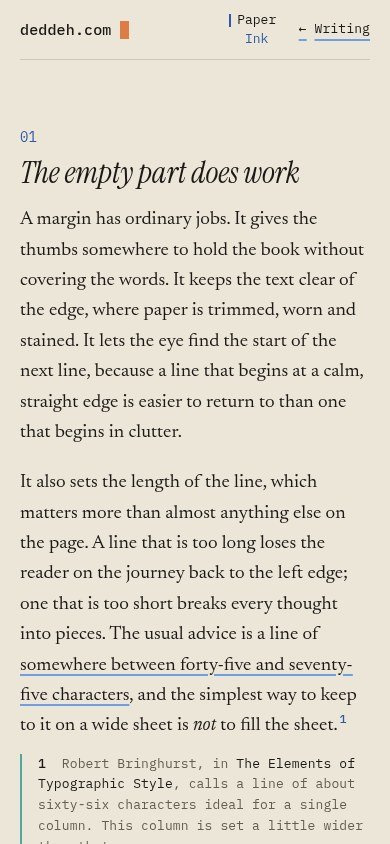
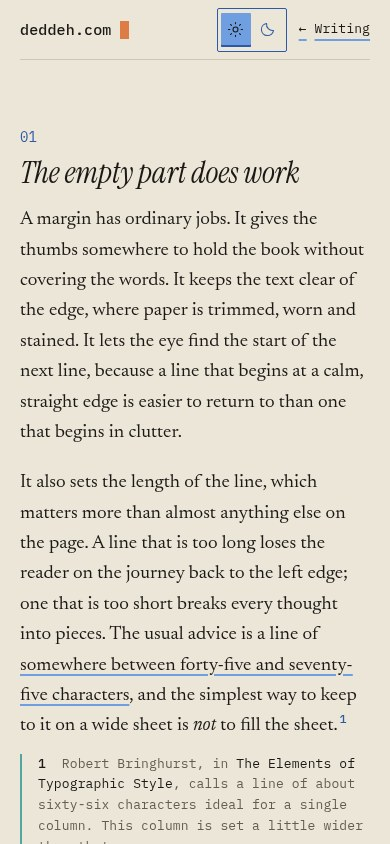
Make Writing reading mode discoverable with a framed sun and moon control

Changed region(s): [[0.5538, 0.0, 0.7385, 0.0616]]

diff --git a/src/article.css b/src/article.css
@@ -18,19 +18,17 @@
 .return:hover { color: var(--blue-ink); }
 .return:hover span { transform: translateX(-4px); }
 
-/* A small typesetter's switch in the existing running head. No extra row or overlay. */
+/* A framed pair of printing blocks in the existing running head. One native toggle. */
 .reader-enabled .top { position: sticky; top: 0; z-index: 4; background: var(--bg); }
 .reader-enabled { scroll-padding-top: 88px; }
-.reading-mode { display: inline-flex; align-items: center; justify-content: center; gap: 9px; flex: none; min-height: 44px; margin-left: auto; padding: 0 8px; font: 400 13px/1.4 var(--mono); color: var(--muted); }
+.reading-mode { display: inline-flex; align-items: center; justify-content: center; gap: 2px; flex: none; min-height: 44px; margin-left: auto; padding: 3px; border: 1px solid var(--muted); border-radius: 2px; font: 400 13px/1.4 var(--mono); color: var(--muted); }
 .reading-mode + .return { margin-left: 0; }
-.reading-mode span:not(.mode-divider) { position: relative; }
-.reading-mode span:not(.mode-divider)::after { content: ''; position: absolute; height: 2px; inset: auto 0 -5px; background: var(--blue-ink); transform: scaleX(0); transition: transform .25s ease; }
-.reading-mode[aria-pressed='false'] .mode-paper, .reading-mode[aria-pressed='true'] .mode-ink { color: var(--ink); }
-.reading-mode[aria-pressed='false'] .mode-paper::after, .reading-mode[aria-pressed='true'] .mode-ink::after { transform: scaleX(1); }
-.reading-mode:hover { color: var(--blue-ink); }
-.reading-mode:active { opacity: .75; }
-.reading-mode:focus-visible { outline-offset: 2px; }
-.mode-divider { color: var(--muted); }
+.reading-mode > span { display: inline-flex; align-items: center; justify-content: center; gap: 6px; min-height: 34px; padding: 0 9px; border-radius: 1px; }
+.reading-mode svg { width: 17px; height: 17px; flex: none; }
+.reading-mode[aria-pressed='false'] .mode-paper, .reading-mode[aria-pressed='true'] .mode-ink { background: var(--blue); color: var(--block-ink); box-shadow: inset 0 -2px var(--blue-ink); }
+.reading-mode:hover { border-color: var(--blue-ink); color: var(--blue-ink); }
+.reading-mode:active { border-color: var(--ink); }
+.reading-mode:focus-visible { outline-offset: 3px; }
 
 /* Interpolate the shared inks once, rather than re-transitioning inherited colours
    on each child (which makes links and labels lag behind the surrounding text).
@@ -143,10 +141,8 @@
   .reader-enabled .top { gap: 12px; }
   .reader-enabled .top .marks { display: none; }
   .reader-enabled { scroll-padding-top: 76px; }
-  .reading-mode { flex-direction: column; gap: 2px; min-width: 60px; line-height: 1.25; }
-  .reading-mode .mode-divider { display: none; }
-  .reading-mode span:not(.mode-divider)::after { width: 2px; height: auto; inset: 2px auto 2px -8px; transform: scaleY(0); }
-  .reading-mode[aria-pressed='false'] .mode-paper::after, .reading-mode[aria-pressed='true'] .mode-ink::after { transform: scaleY(1); }
+  .reading-mode > span { width: 30px; padding: 0; }
+  .reading-mode .mode-label { display: none; }
 }
 @media (max-width: 480px) { .paper .marks span:not(.is-on) { display: none; } }
 
@@ -159,7 +155,7 @@
   #essay, .from-proof #essay, .from-proof.proofed #essay { animation: none; }
   .end { animation: none; }
   .paper, .paper body, .return span, .prose a, .after .word { transition: none; }
-  .paper.is-switching-mode, .paper.is-switching-mode *, .paper.is-switching-mode *::before, .paper.is-switching-mode *::after, .reading-mode span::after { transition: none; }
+  .paper.is-switching-mode, .paper.is-switching-mode *, .paper.is-switching-mode *::before, .paper.is-switching-mode *::after { transition: none; }
 }
 @media print {
   .grain, .return, .marks, .after .toc, .skip-link, .reading-mode, .proof-bars { display: none; }

diff --git a/src/reading-mode.js b/src/reading-mode.js
@@ -19,8 +19,16 @@ export function initReadingMode() {
   const control = document.createElement('button');
   control.type = 'button';
   control.className = 'reading-mode';
-  control.setAttribute('aria-label', 'Ink reading mode');
-  control.innerHTML = '<span class="mode-paper" aria-hidden="true">Paper</span><span class="mode-divider" aria-hidden="true">/</span><span class="mode-ink" aria-hidden="true">Ink</span>';
+  control.setAttribute('aria-label', 'Dark reading mode');
+  control.innerHTML = `
+    <span class="mode-paper" aria-hidden="true">
+      <svg viewBox="0 0 24 24" fill="none" stroke="currentColor" stroke-width="1.5" stroke-linecap="round" focusable="false"><circle cx="12" cy="12" r="3.5"/><path d="M12 2v2m0 16v2M2 12h2m16 0h2M4.93 4.93l1.42 1.42m11.3 11.3 1.42 1.42M4.93 19.07l1.42-1.42m11.3-11.3 1.42-1.42"/></svg>
+      <span class="mode-label">Light</span>
+    </span>
+    <span class="mode-ink" aria-hidden="true">
+      <svg viewBox="0 0 24 24" fill="none" stroke="currentColor" stroke-width="1.5" stroke-linecap="round" stroke-linejoin="round" focusable="false"><path d="M20.5 13.3A8.6 8.6 0 0 1 10.7 3.5a8.6 8.6 0 1 0 9.8 9.8Z"/></svg>
+      <span class="mode-label">Dark</span>
+    </span>`;
   top.querySelector('.return').before(control);
   root.classList.add('reader-enabled');
   let timer;
@@ -29,7 +37,7 @@ export function initReadingMode() {
     root.classList.toggle('is-switching-mode', animate);
     applyReadingMode(mode);
     control.setAttribute('aria-pressed', String(mode === 'ink'));
-    control.title = mode === 'ink' ? 'Read on Paper' : 'Read in Ink';
+    control.title = mode === 'ink' ? 'Switch to light reading mode' : 'Switch to dark reading mode';
     if (animate) timer = setTimeout(() => root.classList.remove('is-switching-mode'), 500);
   };
   control.addEventListener('click', () => {

diff --git a/tests/reading-mode.test.js b/tests/reading-mode.test.js
@@ -39,7 +39,7 @@ describe('Writing reading preference', () => {
     const control = button();
     expect(control.tagName).toBe('BUTTON');
     expect(control.type).toBe('button');
-    expect(control.getAttribute('aria-label')).toBe('Ink reading mode');
+    expect(control.getAttribute('aria-label')).toBe('Dark reading mode');
     control.focus();
     for (const [mode, pressed] of [['ink', 'true'], ['paper', 'false']]) {
       control.click();

diff --git a/docs/review/reading/README.md b/docs/review/reading/README.md
@@ -1,68 +1,76 @@
-# One article, two atmospheres
+# Writing: Light / Dark, Paper / Ink
 
-Paper / Ink adds an evening reading surface to Writing's existing editorial proof. Paper retains its ivory ground, typography, asymmetric measure and marginalia. Ink uses warm charcoal (`#201e1b`), softly luminous text (`#dcd5c7`) and quieter secondary text (`#aaa293`). The blue title block retains dark lettering; blue, orange and teal stay recognizably part of the same composition.
+Writing has two reading atmospheres: the original ivory Paper and warm charcoal Ink. A framed **sun / Light · moon / Dark** control in the running header makes that choice visible. Its selected half uses the existing blue block, dark lettering and a fine lower rule. IBM Plex Mono, small line icons and nearly square corners keep it close to the site's editorial vocabulary.
 
-The control is a small IBM Plex Mono button in the existing header. A blue rule identifies the current mode, horizontally on desktop and vertically beside the two-line label on phones. The running header stays available through the article; it adds no new row, floating panel or change to the article's dimensions. On narrow screens the control occupies the decorative header marks' space. Its native button semantics announce **Ink reading mode, pressed/not pressed**; Space, Enter, touch and pointer all operate the same 44px-or-larger target.
+The original Paper / Ink words looked like a quiet header annotation. Familiar symbols, literal Light / Dark labels, a visible boundary and a filled selection now identify the control as interactive. This is a design judgment, not a claim established by automated tests or a first-time-user study.
 
-A 450ms fade interpolates shared registered CSS color properties once, keeping inherited text and links synchronized. Reduced motion is immediate; browsers without registered custom property support retain an immediate usable switch. There are no new runtime dependencies.
+At 600px and below, the words drop away and both sun and moon remain in a **70 × 44px** button. It occupies the same header slot without an extra row; Writing and home retain their own targets. The full control is one native toggle: clicking or tapping anywhere changes modes. Its stable accessible name is **Dark reading mode** and `aria-pressed` announces on/off. Enter and Space work, icons are decorative to assistive technology, and a separate blue focus outline remains visible.
 
-## Shared implementation
+## Scope and provenance
 
-- `src/reading-palette.css` owns the semantic article colors. Only `.paper` pages receive them. Ink's overrides are screen-only, so print always uses a light sheet.
-- Vite injects that palette and the shared preference bootstrap into every `writing/*/index.html` head. The explicit `deddeh:reading-mode` preference is applied before the article module, fonts or first visible content; future articles require no separate theme implementation. No system-clock or OS-theme inference is used.
-- `src/reading-mode.js` progressively creates the control, stores explicit choices, and synchronizes other tabs and restored history entries. Storage denial still permits switching on the current page. No JavaScript means readable Paper and ordinary navigation, with no dead control.
-- `src/proof.js` retains the typography measurement algorithm. It refreshes a prepared iframe's preference at measurement time, samples the actual surface and rules, and blends word bars against that surface. `Field.proof` accepts those two colors; geometry, formation, easing and timing remain the existing implementation.
-- The homepage's proof-only CSS uses the same palette for its header and fallback fade. Unmeasured and no-WebGL entries also land in the chosen atmosphere. Arrival bars carry their mode, preventing a stale palette from drawing over another mode.
-- Return links and browser Back/Forward retain the existing navigation. Only the proof method's color arguments change in `field.js`; homepage artwork and Music sculpture generation are untouched. Article copy/metadata, Contact, deployment and domain configuration are unchanged.
+- GitHub account/repository authenticated as `module7543` / `module7543/deddeh.com`.
+- Fresh branch `design/writing-mode-discoverability` starts directly at PR #12's verified head, `a63fe70578b3b993985ef5f210ef16114343f6e1`.
+- Production `main` had advanced to `639d75c8f70f31742743438d266a8bd2c9800b6d`. Its only additional change was `.github/workflows/pr-checks.yml`; it was inspected and merged into this branch.
+- The new PR targets `main` and contains the complete reading-mode feature. It does not depend on merging PR #12. Both PRs remain unmerged; PR #12's branch is unchanged.
+- Refinement runtime changes are confined to the control markup/name/title in `src/reading-mode.js` and its styles in `src/article.css`. Palettes, article typography/layout, the 450ms fade, persistence, proof-pulling animation, scroll/focus handling, reduced motion and print behavior remain as implemented in PR #12. No refinement changes to homepage, Apps, Music or Contact code.
+
+## Complete reading-mode implementation
+
+- `src/reading-palette.css` owns the semantic article colors. Ink uses warm charcoal `#201e1b`, text `#dcd5c7` and secondary text `#aaa293`. Print uses light Paper.
+- Vite injects the palette and shared preference bootstrap into every `writing/*/index.html` head. Explicit `deddeh:reading-mode` preference applies before first paint; future Writing articles share the implementation.
+- `src/reading-mode.js` creates the control, persists explicit choices and synchronizes tabs and restored history entries. No JavaScript means readable Paper with no dead control. Denied storage still allows switching.
+- The existing proof measures the chosen surface and shadow colors. Its geometry, formation, easing and timing stay intact; measured and fallback entries respect the saved mode.
+- Registered CSS color properties keep the background and text fade synchronized. Reduced motion switches immediately.
 
 ## Verification
 
-Verified against production `main` at `0bba93a64cc4c24d41f2da96ab58e36e686e5d51`.
+The current refinement was tested in Linux Chromium with software WebGL and emulated mobile touch. The original PR #12 build was served separately as the comparison baseline.
 
-- JavaScript syntax check; **44 interaction/unit tests**, including seven preference tests; GitHub Pages production build.
-- Existing site-wide Chromium verification on desktop and mobile: Writing, Apps, Music playback, navigation and mocked Formspree. No real submissions.
-- `verify:reading`: default Paper despite OS dark preference; both directions of switching; Enter/Space/touch; native accessibility-tree state; unchanged focus, scroll and typesetting; reload and a second article fixture; direct saved-Ink entry with delayed and failed module downloads; real measured proof in both modes; a previously prepared iframe with a changed preference; no-WebGL/unmeasured fallbacks; return navigation; actual Back/Forward cache restoration in both modes; cross-tab synchronization; reduced motion; widths 320, 360, 390, 600, 768, 1100 and 1440; denied local/session storage; no JavaScript; print during a switch and return to Ink on screen.
-- First-frame sampling found no Paper background with stored Ink, even with the article bundle delayed or aborted.
-- Desktop and mobile article geometry and typography match production. Paper's opening pixels below the proof label are identical. The existing orange Proof label received a minimal AA correction (`#a84f1e` → `#a64e1e`, 4.44:1 → 4.52:1); the unused teal text token was also strengthened for future use.
-- Text contrast: Paper body 14.10:1, secondary 5.17:1; Ink body 11.39:1, secondary 6.57:1. Tested links, highlighted title, section numbers, notes, captions, control focus, hover and selection. [Measured ratios and history evidence](verification.json).
-- Hands-on shared Chromium inspection: switching, scrolling, return navigation and saved-Ink fallback entry. Reviewed all eight captures and a rendered print PDF. [Rendered browser recording](paper-ink.mp4) includes both directions, mid-article switching and measured proof entry.
+- `npm run check`; `npm test`: **44 tests passed**; `npm run build`; `npm run build:pages`.
+- Existing `verify:pages` passed desktop and mobile navigation, Writing, Apps, Music playback and mocked Contact. No real Formspree submissions.
+- `verify:reading`: pointer, Enter/Space and emulated touch; switching in both directions; native accessibility name/pressed state; visible focus; 44px target; unchanged scroll, focus and article geometry; reload, another article fixture and cross-tab persistence; sticky header and no navigation overlap at 320, 360, 390, 600, 601, 768, 1100 and 1440px.
+- The Paper article geometry and opening pixels below the proof label match PR #12 exactly at desktop and mobile sizes. Palette/proof source files are unchanged by the refinement.
+- The reading suite also checks first-frame Ink with delayed/failed modules, measured proof and stale iframe preference, fallback entry, Back/Forward restoration, reduced motion, denied storage, no JavaScript and light print during a switch.
+- Control label/icon contrast is checked against each actual selected/unselected surface; boundary and focus contrast are checked separately. [Measured results](verification.json).
+- Shared Chromium desktop inspection covered both directions, the scrolled sticky dark header and keyboard focus. Actual screenshots below were inspected at desktop, 390px and 320px widths.
+- An inherited fallback check raced the outgoing page navigation. The test now holds the destination request until the outgoing fallback palette has been inspected; application behavior is unchanged.
 
-Limits: Chromium on Linux, software WebGL and emulated mobile touch. No physical iOS/Android device, Safari/Firefox or spoken VoiceOver/NVDA audit. Accessibility was checked through native roles/state, the browser accessibility tree, keyboard behavior and contrast. The only published essay is the sample; cross-article persistence uses a locally served second-article fixture. No production deployment was made.
+Limits: no physical iOS/Android device, Safari/Firefox or spoken VoiceOver/NVDA audit. Native accessibility-tree, keyboard, touch emulation and contrast checks do not establish spoken screen-reader behavior or aesthetic quality. Cross-article testing uses a local second-article fixture because only one essay is published. No production deployment was made.
 
-Reproduce against a local Pages build:
+## Run the exact reviewed commit
+
+Use the new PR's head SHA (also recorded in the portable preview's `START-HERE.txt`):
 
 ```sh
+git fetch origin design/writing-mode-discoverability
+git switch --detach <new-PR-head-SHA>
 npm ci
-npm run check
-npm test
 npm run build:pages
 npm run preview -- --base=/deddeh.com/ --port 4175
-# In another terminal:
-PREVIEW_URL=http://localhost:4175/deddeh.com/ npm run verify:pages
-PREVIEW_URL=http://localhost:4175/deddeh.com/ npm run verify:reading
+# http://localhost:4175/deddeh.com/writing/the-margin/
 ```
 
-Set `CHROMIUM_PATH` if using an installed Chromium instead of Playwright's browser. Set `BASELINE_URL` to a separately served production build to also run the geometry/pixel comparison. Browser verification regenerates these screenshots; the print PDF and JSON report go to `artifacts/reading/`.
-
-## Interactive preview
+Then, in another terminal:
 
 ```sh
-git fetch origin feature/writing-reader-mode
-git switch feature/writing-reader-mode
-npm ci
-npm run dev
-# http://localhost:4173/writing/the-margin/
+CHROMIUM_PATH=/usr/bin/chromium PREVIEW_URL=http://localhost:4175/deddeh.com/ npm run verify:pages
+CHROMIUM_PATH=/usr/bin/chromium PREVIEW_URL=http://localhost:4175/deddeh.com/ npm run verify:reading
 ```
 
-For a portable preview with no Node installation: run `npm run package:reading-preview`, unzip `artifacts/Deddeh-Paper-Ink-preview.zip`, then run `python3 preview.py` (Windows: `py preview.py`) inside the extracted folder. It opens the complete built website on a local-only server, with the source commit recorded in `START-HERE.txt`. Test the toggle, reload, return to Writing and reopen the article. Contact retains its real destination; do not send test messages.
+Omit `CHROMIUM_PATH` to use Playwright's installed Chromium. Set `BASELINE_URL` to a separately served reference build to repeat the geometry/pixel comparison. The reading verification regenerates screenshots here and writes its report/print PDF under `artifacts/reading/`.
 
-## Comparable screenshots
+For a portable preview: run `npm run package:reading-preview`, unzip `artifacts/Deddeh-Paper-Ink-preview.zip`, then run `python3 preview.py` (Windows: `py preview.py`). It serves the complete bundled website with local fonts/audio and records its exact source commit. Contact retains its real destination; do not send test messages. The preview is local; no public branch-preview host or port-forward tool was available in this environment.
 
-Actual Chromium captures at 1440×900 and 390×844. Each opening and reading pair uses the same scroll position.
+## Actual screenshots
 
-| Position | Paper | Ink |
+Chromium captures, with matched positions within each pair. Light uses Paper; Dark uses Ink.
+
+| Position | Light | Dark |
 |---|---|---|
-| Desktop opening | ![Paper desktop opening](desktop-paper-opening.jpg) | ![Ink desktop opening](desktop-ink-opening.jpg) |
-| Desktop reading | ![Paper desktop reading](desktop-paper-reading.jpg) | ![Ink desktop reading](desktop-ink-reading.jpg) |
-| Mobile opening | ![Paper mobile opening](mobile-paper-opening.jpg) | ![Ink mobile opening](mobile-ink-opening.jpg) |
-| Mobile reading | ![Paper mobile reading](mobile-paper-reading.jpg) | ![Ink mobile reading](mobile-ink-reading.jpg) |
+| Desktop 1440 × 900, opening | ![Desktop Light](desktop-paper-opening.jpg) | ![Desktop Dark](desktop-ink-opening.jpg) |
+| Desktop, reading | ![Desktop Light reading](desktop-paper-reading.jpg) | ![Desktop Dark reading](desktop-ink-reading.jpg) |
+| Mobile 390 × 844, opening | ![390px Light](mobile-paper-opening.jpg) | ![390px Dark](mobile-ink-opening.jpg) |
+| Mobile, reading | ![Mobile Light reading](mobile-paper-reading.jpg) | ![Mobile Dark reading](mobile-ink-reading.jpg) |
+| Mobile 320 × 844, opening | ![320px Light](mobile-320-paper-opening.jpg) | ![320px Dark](mobile-320-ink-opening.jpg) |
+
+`paper-ink.mp4` is historical footage from PR #12, showing the original text control; the screenshots above show the current refinement.
